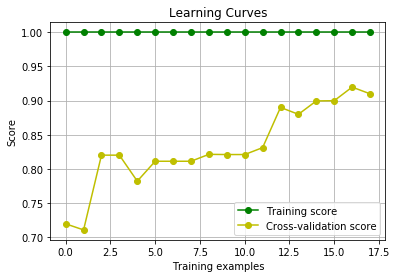
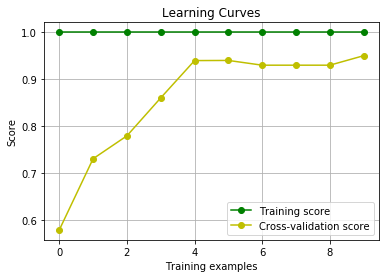
learning curves update

diff --git a/README.md b/README.md
@@ -18,17 +18,17 @@
 
 [Metrics_Classification](https://github.com/dylan-shao/ML-DS-Udacity_Data_Scientist_Nanodegree/blob/master/Supervised%20Learning/Metrics_Classification)
 
-[Metrics_Regression](https://github.com/dylan-shao/ML-DS-Udacity_Data_Scientist_Nanodegree/blob/master/Supervised%20Learning/Metrics_Regression)
-
 [Mini-batch_example](https://github.com/dylan-shao/ML-DS-Udacity_Data_Scientist_Nanodegree/blob/master/Supervised%20Learning/Mini-batch_example)
 
-[Perceptron](https://github.com/dylan-shao/ML-DS-Udacity_Data_Scientist_Nanodegree/blob/master/Supervised%20Learning/Perceptron)
+[Metrics_Regression](https://github.com/dylan-shao/ML-DS-Udacity_Data_Scientist_Nanodegree/blob/master/Supervised%20Learning/Metrics_Regression)
 
 [PolynomialRegression](https://github.com/dylan-shao/ML-DS-Udacity_Data_Scientist_Nanodegree/blob/master/Supervised%20Learning/PolynomialRegression)
 
-[Regularization_FeatureScaling](https://github.com/dylan-shao/ML-DS-Udacity_Data_Scientist_Nanodegree/blob/master/Supervised%20Learning/Regularization_FeatureScaling)
+[Perceptron](https://github.com/dylan-shao/ML-DS-Udacity_Data_Scientist_Nanodegree/blob/master/Supervised%20Learning/Perceptron)
 
 [SVM](https://github.com/dylan-shao/ML-DS-Udacity_Data_Scientist_Nanodegree/blob/master/Supervised%20Learning/SVM)
+
+[Regularization_FeatureScaling](https://github.com/dylan-shao/ML-DS-Udacity_Data_Scientist_Nanodegree/blob/master/Supervised%20Learning/Regularization_FeatureScaling)
 
 [Spam_&_Ensembles](https://github.com/dylan-shao/ML-DS-Udacity_Data_Scientist_Nanodegree/blob/master/Supervised%20Learning/Spam_%26_Ensembles)
 

diff --git a/Supervised Learning/Learning Curves/README.md b/Supervised Learning/Learning Curves/README.md
@@ -30,6 +30,7 @@ y = np.array(data['y'])
 
 # Fix random seed
 np.random.seed(55)
+
 #---------plot figure-------------
 import matplotlib.pyplot as plt
 from matplotlib.colors import ListedColormap
@@ -45,7 +46,7 @@ plt.scatter(x1.reshape(100,), x2.reshape(100,), c=y, cmap=ListedColormap(colors)
 
 
 
-    <matplotlib.collections.PathCollection at 0x1a1d9109e8>
+    <matplotlib.collections.PathCollection at 0x1a1e632be0>
 
 
 
@@ -132,7 +133,7 @@ draw_learning_curves(X2,y2, lr, 18)
 
 
 ```python
-draw_learning_curves(X2,y2, dt, 18)
+draw_learning_curves(X2,y2, dt, 10)
 
 # As we can see below, this decision tree is the good fit
 ```
